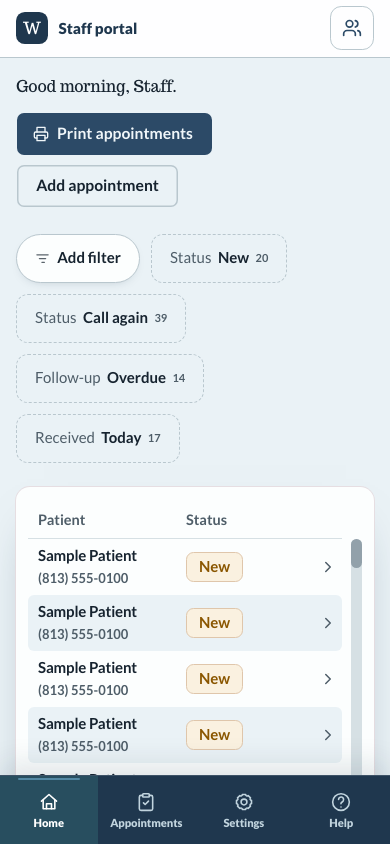
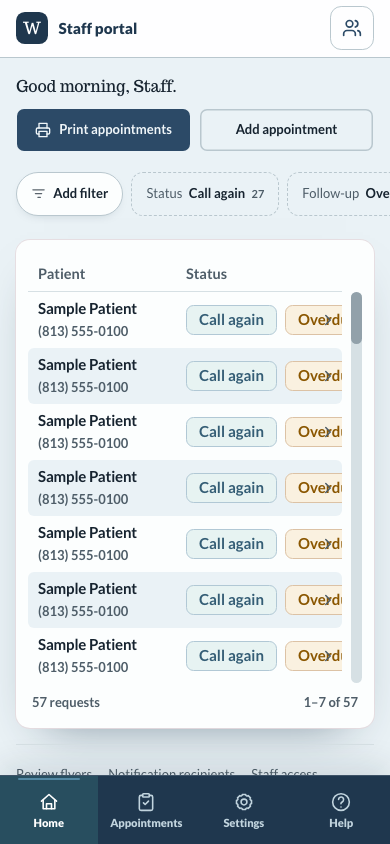
feat(portal): compact the Home header on phones; phone numbers as text on a desk
Desktop (any fine pointer): each row's phone number is a span, not a
tel: link. Staff dial from a desk phone, so a link only opened a
softphone prompt. One click selects the whole number (user-select:
all) for a copy; a click that ends a text selection inside a row does
not open the record. The hover underline and its colour transition now
belong to the link alone. On a touch screen (pointer: coarse) the
number stays a dial link; the record card keeps its own call link on
every device.

Phone (<= 48rem): the day sets at 1.75rem so it holds one line, Print
and Add share one row, and the filter chips sit on a single row that
scrolls sideways under a finger. The first request row now lands at
330px at 390x844 instead of 570px.

diff --git a/src/app/admin/(portal)/(home)/line-list.tsx b/src/app/admin/(portal)/(home)/line-list.tsx
@@ -1,6 +1,6 @@
 "use client";
 
-import { useEffect, useLayoutEffect, useRef } from "react";
+import { useCallback, useEffect, useLayoutEffect, useRef, useSyncExternalStore } from "react";
 import type { MouseEvent as ReactMouseEvent, ReactNode } from "react";
 
 import { Card, CardContent, CardFooter } from "@/components/ui/card";
@@ -70,6 +70,23 @@ function visibleRange(viewport: HTMLElement, table: HTMLTableElement): readonly 
   return [first, last];
 }
 
+/** True on a touch screen, where the row's phone number is a dial. False on
+   the server and through hydration, so the first paint is the desktop text. */
+function useCoarsePointer(): boolean {
+  const subscribe = useCallback((onChange: () => void) => {
+    const media = window.matchMedia("(pointer: coarse)");
+    media.addEventListener("change", onChange);
+    return () => {
+      media.removeEventListener("change", onChange);
+    };
+  }, []);
+  return useSyncExternalStore(
+    subscribe,
+    () => window.matchMedia("(pointer: coarse)").matches,
+    () => false,
+  );
+}
+
 export function LineList({
   lines,
   resetKey,
@@ -81,6 +98,7 @@ export function LineList({
   empty,
   note,
 }: LineListProps) {
+  const dial = useCoarsePointer();
   const viewportRef = useRef<HTMLDivElement>(null);
   const tableRef = useRef<HTMLTableElement>(null);
   const rangeRef = useRef<HTMLSpanElement>(null);
@@ -167,6 +185,7 @@ export function LineList({
                     <LineRow
                       key={line.id}
                       line={line}
+                      dial={dial}
                       open={openRowId === line.id}
                       settled={settledId === line.id}
                       onOpenChange={(open) => {
@@ -209,8 +228,17 @@ function onControl(event: ReactMouseEvent<HTMLTableRowElement>): boolean {
   return event.target instanceof Element && event.target.closest("a, button") !== null;
 }
 
+/** True when the click ends a text selection inside the row: staff copying
+   a phone number, not opening the record. */
+// oxlint-disable-next-line typescript/prefer-readonly-parameter-types -- DOM nodes carry platform member types that cannot be made readonly
+function selecting(row: HTMLTableRowElement): boolean {
+  const selection = window.getSelection();
+  return selection !== null && !selection.isCollapsed && selection.containsNode(row, true);
+}
+
 function LineRow({
   line,
+  dial,
   open,
   settled,
   onOpenChange,
@@ -218,6 +246,8 @@ function LineRow({
   onSettled,
 }: Readonly<{
   line: Readonly<HomeLine>;
+  /** Render the phone as a dial link (touch) or as copyable text (desktop). */
+  dial: boolean;
   open: boolean;
   settled: boolean;
   onOpenChange: (open: boolean) => void;
@@ -225,7 +255,11 @@ function LineRow({
   onSettled: (id: string) => void;
 }>) {
   const rowRef = useRef<HTMLTableRowElement>(null);
-  const phone = (
+  /* Staff work at a desk with a phone in hand: the number is text to read
+     and copy (one click selects all of it), not a link that would open a
+     softphone. On a touch screen it is a dial. The record card keeps its own
+     call link either way. */
+  const phone = dial ? (
     <a
       href={line.tel}
       className="appt-phone"
@@ -238,6 +272,11 @@ function LineRow({
       <PhoneGlyph size={18} />
       {line.phoneDisplay}
     </a>
+  ) : (
+    <span className="appt-phone" data-ui-redact="patient-contact">
+      <PhoneGlyph size={18} />
+      {line.phoneDisplay}
+    </span>
   );
   return (
     <TableRow
@@ -247,9 +286,10 @@ function LineRow({
       data-settled={settled || undefined}
       className="wgi-list-row"
       onClick={(event) => {
-        /* The whole row opens the record; its phone link stays a dial and
-           its chevron is the trigger itself. */
-        if (onControl(event)) return;
+        /* The whole row opens the record; its phone link stays a dial, its
+           chevron is the trigger itself, and a click that selected text
+           (the phone number, to copy) is a selection, not an open. */
+        if (onControl(event) || selecting(event.currentTarget)) return;
         onOpenChange(!open);
       }}
     >

diff --git a/src/app/admin/(portal)/(home)/home.css b/src/app/admin/(portal)/(home)/home.css
@@ -475,10 +475,21 @@
   font-variant-numeric: tabular-nums;
   font-weight: 600;
   white-space: nowrap;
+}
+
+/* On a desk the number is text: one click selects the whole of it to copy
+   into the phone system, and nothing lights up under the cursor. */
+span.appt-phone {
+  cursor: text;
+  user-select: all;
+}
+
+/* On a touch screen it is a dial, and the link says so on hover. */
+a.appt-phone {
   transition: color var(--motion-micro-duration) var(--motion-exit);
 }
 
-.appt-phone:hover {
+a.appt-phone:hover {
   color: var(--color-teal-ink);
   text-decoration: underline;
   text-underline-offset: 3px;
@@ -724,6 +735,56 @@
   .wgi-home {
     --wgi-row-h: 3.5rem;
     --wgi-gutter: 2rem;
+    --wgi-day-size: 1.75rem;
+  }
+
+  /* The header on a phone: the day on one line, the two commands side by
+     side on the next, and the filters one row deep that scrolls sideways,
+     so the first request is on screen without a scroll. */
+  .wgi-home > .portal-sheet-head {
+    gap: var(--ps-3);
+  }
+
+  .wgi-home > .portal-sheet-head .portal-sheet-commands {
+    flex-wrap: nowrap;
+  }
+
+  .wgi-home > .portal-sheet-head .portal-sheet-commands > * {
+    flex: 1 1 0;
+    min-width: 0;
+    padding-inline: 0.75rem;
+    font-size: var(--pt-xs);
+  }
+
+  .wgi-home .wgi-filter-bar {
+    flex-wrap: nowrap;
+    gap: 0.5rem;
+    margin-block: 0.75rem -0.5rem;
+    margin-inline: -1rem;
+    overflow-x: auto;
+    padding-block: 0.5rem;
+    padding-inline: 1rem;
+    scrollbar-width: none;
+  }
+
+  .wgi-home .wgi-filter-bar::-webkit-scrollbar {
+    display: none;
+  }
+
+  .wgi-home .wgi-filter-bar > * {
+    flex: none;
+  }
+
+  .wgi-home .wgi-add-filter,
+  .wgi-home .wgi-sug {
+    min-height: 2.75rem;
+    padding-inline: 0.875rem;
+    font-size: var(--pt-xs);
+  }
+
+  .wgi-home .wgi-pill-label {
+    min-height: calc(2.75rem - 2px);
+    font-size: var(--pt-xs);
   }
 
   .wgi-list-card {
